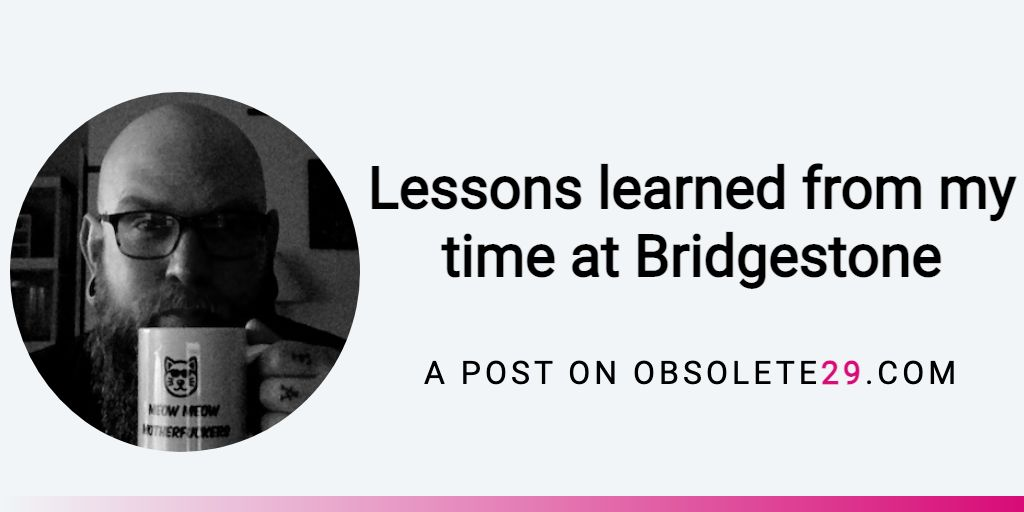
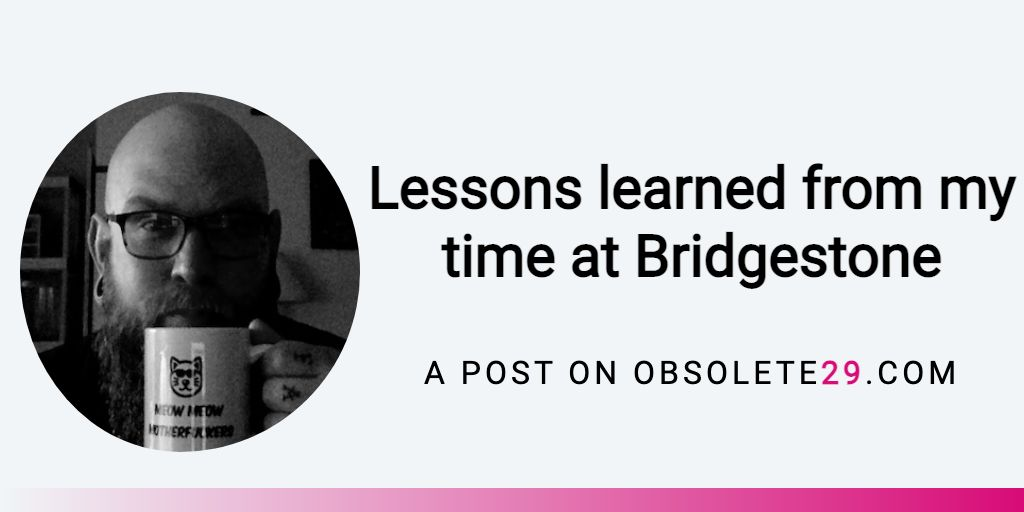
Increase bottom border width for twitter card

diff --git a/posts/hello-world/og-image/index.html b/posts/hello-world/og-image/index.html
@@ -50,7 +50,7 @@
             width: 180px;
             height: 180px;
             border-radius: 50%;
-            padding-left: 5px;
+            padding-left: 10px;
         }
 
         .og-image {
@@ -71,6 +71,10 @@
         @media (max-width: 512px) {
             h1 {
                 font-size: 1.8em;
+            }
+
+            .page-stripe {
+                height: 12px;
             }
         }
     </style>

diff --git a/posts/learning-web-dev/og-image/index.html b/posts/learning-web-dev/og-image/index.html
@@ -50,7 +50,7 @@
             width: 180px;
             height: 180px;
             border-radius: 50%;
-            padding-left: 5px;
+            padding-left: 10px;
         }
 
         .og-image {
@@ -71,6 +71,10 @@
         @media (max-width: 512px) {
             h1 {
                 font-size: 1.8em;
+            }
+
+            .page-stripe {
+                height: 12px;
             }
         }
     </style>

diff --git a/posts/lessons-learned-from-bridgestone/og-image/index.html b/posts/lessons-learned-from-bridgestone/og-image/index.html
@@ -50,7 +50,7 @@
             width: 180px;
             height: 180px;
             border-radius: 50%;
-            padding-left: 5px;
+            padding-left: 10px;
         }
 
         .og-image {
@@ -71,6 +71,10 @@
         @media (max-width: 512px) {
             h1 {
                 font-size: 1.8em;
+            }
+
+            .page-stripe {
+                height: 12px;
             }
         }
     </style>

diff --git a/posts/please-meet-my-cats/og-image/index.html b/posts/please-meet-my-cats/og-image/index.html
@@ -50,7 +50,7 @@
             width: 180px;
             height: 180px;
             border-radius: 50%;
-            padding-left: 5px;
+            padding-left: 10px;
         }
 
         .og-image {
@@ -71,6 +71,10 @@
         @media (max-width: 512px) {
             h1 {
                 font-size: 1.8em;
+            }
+
+            .page-stripe {
+                height: 12px;
             }
         }
     </style>
